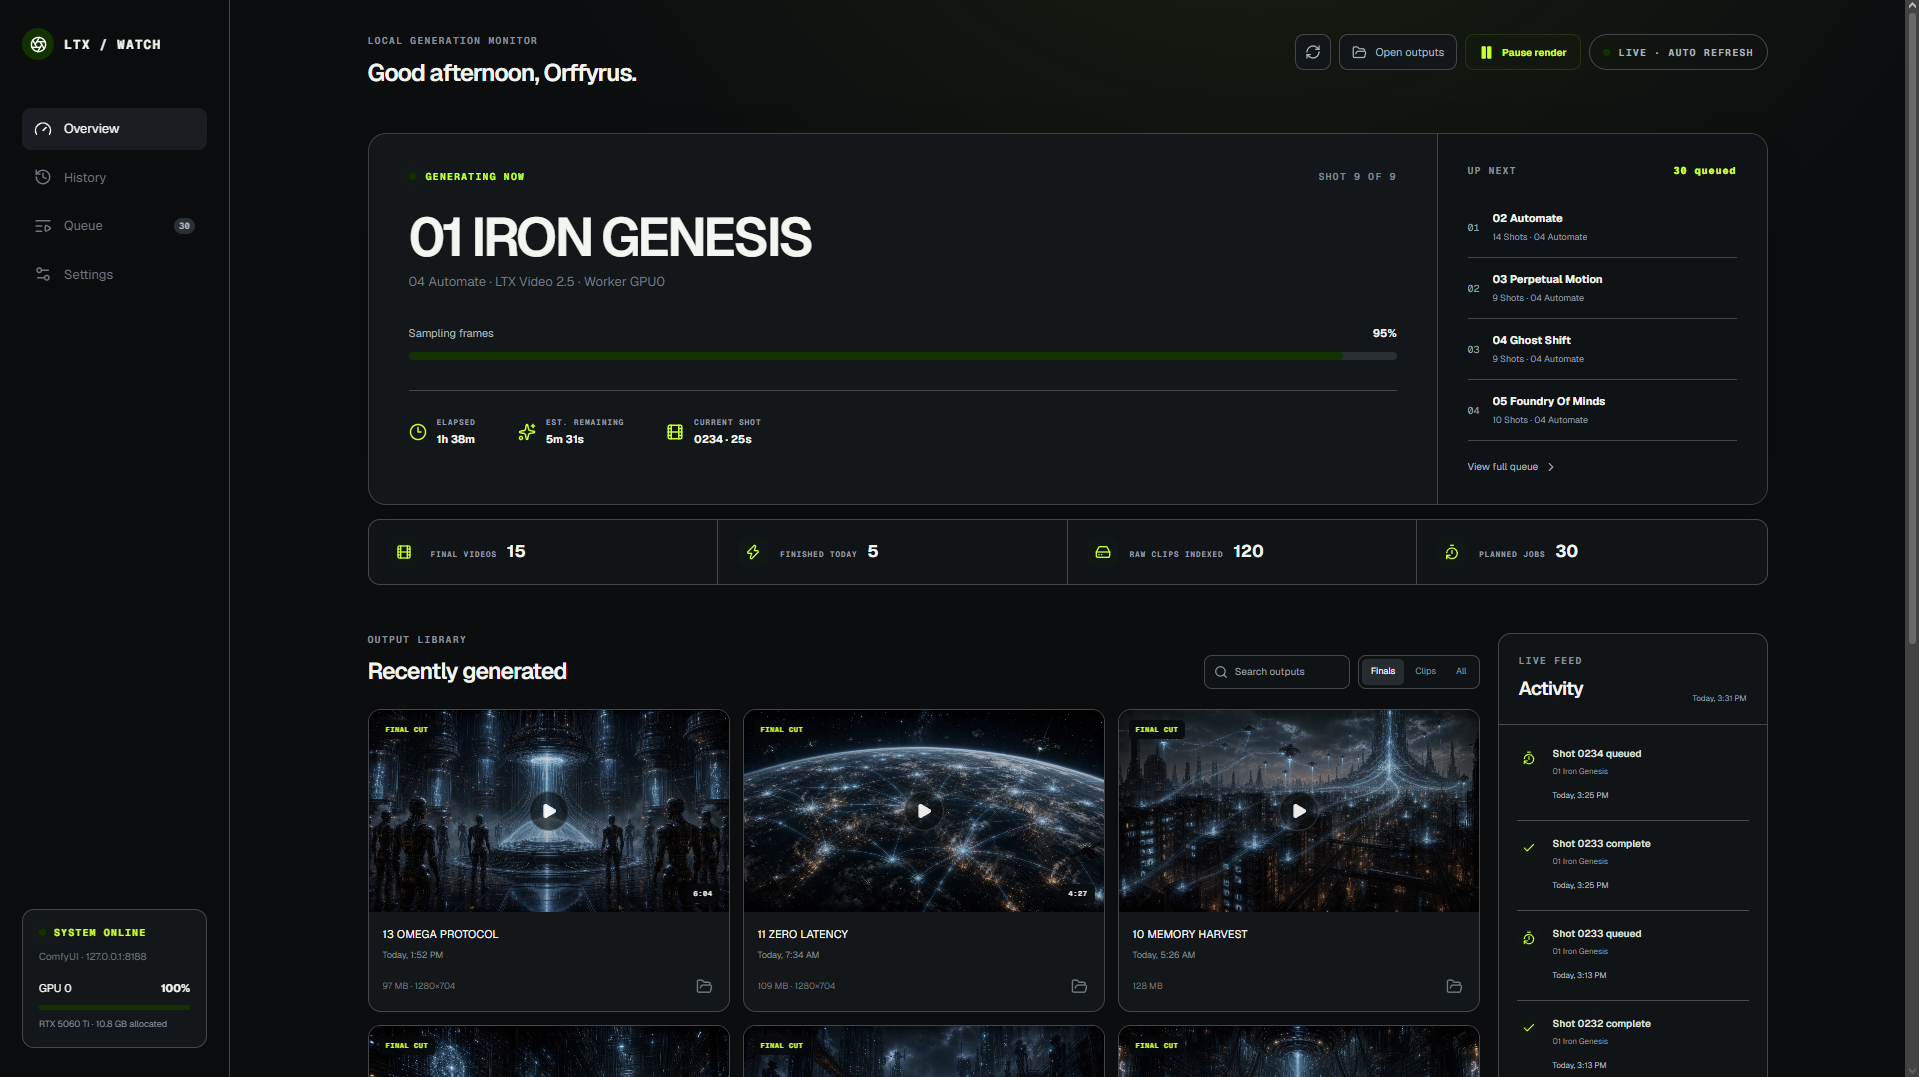
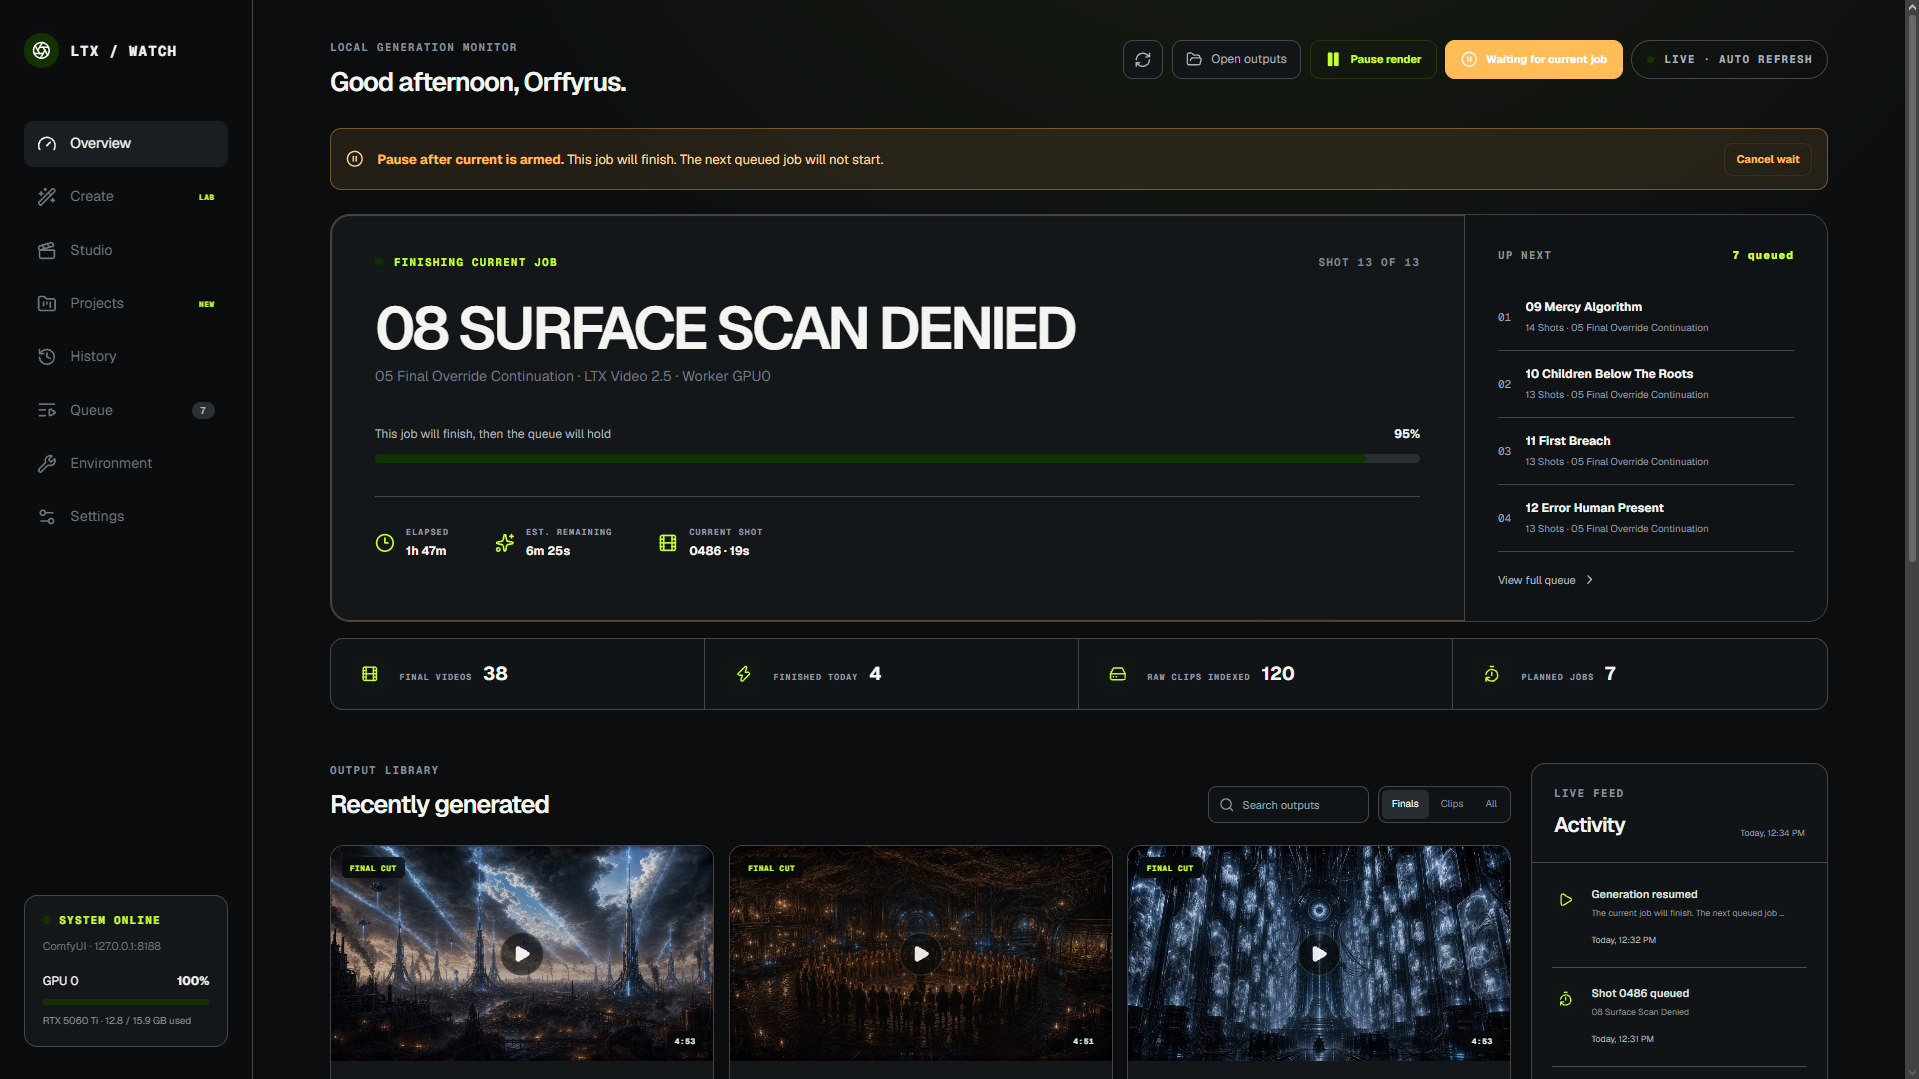
Add README screenshots for Overview, Create, and Projects
Replace the Overview hero capture with Pause after current armed, and add Create Director, context-intake, and Projects library screenshots.

diff --git a/README.md b/README.md
@@ -5,7 +5,7 @@
 ![LTX](https://img.shields.io/badge/LTX-2.5-C8FF32?labelColor=111417)
 ![Local first](https://img.shields.io/badge/data-local%20only-C8FF32?labelColor=111417)
 
-![LTX Watch dashboard showing active generation progress, queued jobs, output history, and live activity](docs/images/ltx-watch-dashboard.png)
+![LTX Watch overview with Pause after current armed, live album progress, queued jobs, and output history](docs/images/ltx-watch-dashboard.png)
 
 **LTX / Watch** is a private, local-first dashboard and production workspace for LTX Video jobs running through ComfyUI. It includes a human-in-the-loop Studio where each shot is generated, reviewed, corrected, and explicitly accepted before moving forward.
 
@@ -43,6 +43,20 @@ The app runs entirely on your computer. It does not upload prompts, videos, logs
 - First-class Blender/3D assets with one designated project backbone scene for shared cameras, blocking, and spatial continuity
 - Persistent **Continuity Bible** for reusable world, visual-language, invariant, negative, character, location, wardrobe, prop, vehicle, and style memory
 - Open-ended long-scene planner with review-gated 5–20 second clips, canonical Ingredients cuts, and accepted-ending first-frame handoffs for continuous clips
+
+## Screenshots
+
+**Create** — story, Director timeline, Ingredients requirement, context drop, and format controls.
+
+![Create workspace with story, global continuity prompt, and Director timeline](docs/images/ltx-watch-create.png)
+
+![Director timed action segments with the Ingredients reference requirement](docs/images/ltx-watch-create-director.png)
+
+![Create context drop, format, visual backbone, and creative controls](docs/images/ltx-watch-create-context.png)
+
+**Projects** — shot library, LTX mapping, and selective regeneration.
+
+![Projects workspace with indexed shots, LTX mapping, and regeneration controls](docs/images/ltx-watch-projects.png)
 
 ## Requirements
 

diff --git a/CHANGELOG.md b/CHANGELOG.md
@@ -7,6 +7,7 @@ All notable changes to LTX / Watch are documented here.
 ### Added
 
 - Overview **Pause after current** control. It keeps the existing immediate **Pause render** behavior and, when armed, lets the active album job finish, then suspends the worker so the next queued job does not start.
+- README screenshots for Overview (including Pause after current), Create, Director timeline, context intake, and Projects.
 - Experimental **Create** workspace for original local LTX 2.5 text-to-video, first-frame, and first/last-frame generation using ComfyUI's official full-workflow templates.
 - Private persistent drafts, one-to-four variation queue, random/fixed seeds, prompt enhancement, format, camera, motion, style, audio, progress, history, playback, Explorer, retry, pause-between-jobs, and **Move first** controls.
 - Unified drag-and-drop context intake for images, video, songs, and `.blend` scenes, with private chunked uploads, video frame extraction, final-soundtrack replacement, and optional Blender-backed anchors.
